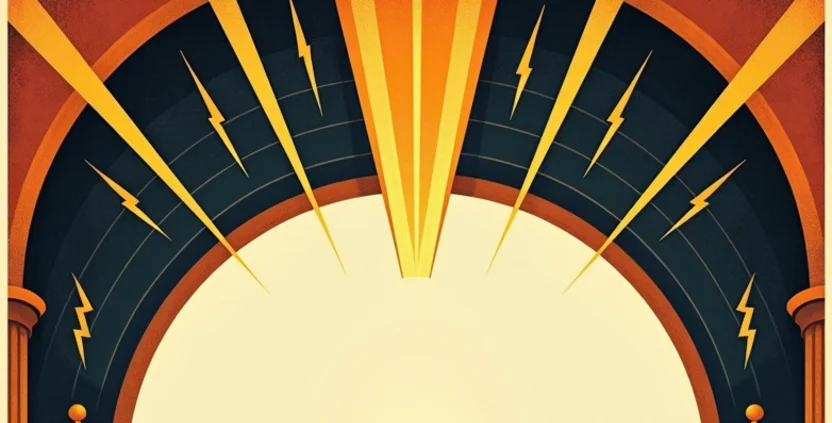
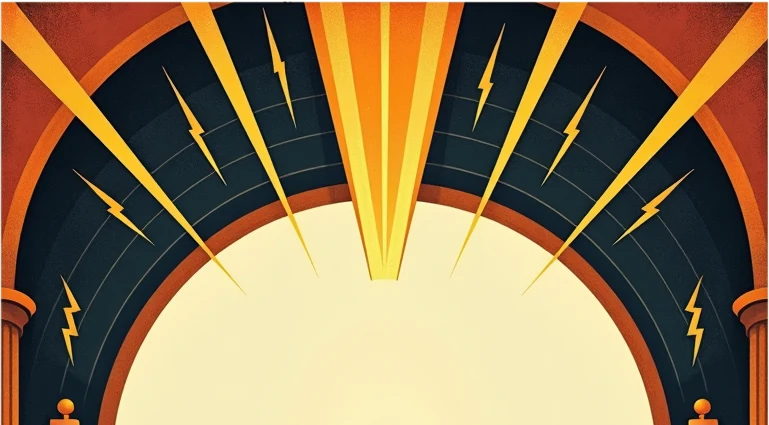
art — chapter crowns keep their full shape (alpha margin, no flat crop) (#5)
Web crowns are rebuilt from the approved frames by tools/crown_alpha.py:
the faint bone margin is cleared to alpha instead of cropped away, so the
ivy, the aether apex, and the compass point are no longer cut flat. CSS
keeps each crown's own aspect ratio.

Changed region(s): [[0.0, 0.0, 1.0, 1.0], [0.0624, 0.3381, 0.0936, 0.3688]]

diff --git a/web/rules/css/styles.css b/web/rules/css/styles.css
@@ -462,7 +462,7 @@ body::before {
 .page-hero--framed { text-align: center; }
 .page-hero--framed::after { left: 50%; transform: translateX(-50%); background: linear-gradient(90deg, transparent, var(--theme-accent), transparent); }
 .hero-crown {
-  aspect-ratio: 832 / 423;
+  aspect-ratio: var(--crown-ar);
   max-width: 560px;
   margin: 0 auto 1rem;
   padding: 0 21% 4%;
@@ -470,12 +470,13 @@ body::before {
   flex-direction: column;
   justify-content: flex-end;
   align-items: center;
-  background: var(--crown) center / 100% 100% no-repeat;
+  /* Crowns carry alpha (margin cleared, tools/crown_alpha.py); keep their own proportions */
+  background: var(--crown) center / contain no-repeat;
 }
-.hero-aether   { --crown: url(../../assets/art/frames/aether-crown.webp); }
-.hero-galvanic { --crown: url(../../assets/art/frames/galvanic-crown.webp); }
-.hero-split    { --crown: url(../../assets/art/frames/split-crown.webp); }
-.hero-neutral  { --crown: url(../../assets/art/frames/neutral-crown.webp); }
+.hero-aether   { --crown: url(../../assets/art/frames/aether-crown.webp);   --crown-ar: 804 / 430; }
+.hero-galvanic { --crown: url(../../assets/art/frames/galvanic-crown.webp); --crown-ar: 769 / 425; }
+.hero-split    { --crown: url(../../assets/art/frames/split-crown.webp);    --crown-ar: 818 / 430; }
+.hero-neutral  { --crown: url(../../assets/art/frames/neutral-crown.webp);  --crown-ar: 805 / 430; }
 .hero-crown .page-number { color: #8e2f23; margin-bottom: 0.35rem; }
 .hero-crown .page-title {
   color: #17140f;

diff --git a/tools/crown_alpha.py b/tools/crown_alpha.py
@@ -1,0 +1,80 @@
+#!/usr/bin/env python3
+"""
+Aetherfall Art Pipeline — Web Chapter Crowns with Alpha (Session 35)
+
+The approved theme frames sit on a faint bone margin. The old web crowns trimmed
+that margin off with a rectangular crop, which cut the ivy leaves and points flat.
+This clears the margin to transparent instead: a flood from the top and side
+edges through bone-colored pixels, limited to an outer band, so anything drawn
+over the margin (leaves, the compass point) keeps its full shape.
+
+Usage (needs Pillow + NumPy + SciPy; run through uv):
+    uv run --with pillow --with numpy --with scipy tools/crown_alpha.py            # all four
+    uv run --with pillow --with numpy --with scipy tools/crown_alpha.py --theme split --preview /tmp/p.png
+"""
+
+import argparse
+from pathlib import Path
+
+import numpy as np
+from PIL import Image
+from scipy import ndimage
+
+PROJECT_ROOT = Path(__file__).resolve().parent.parent
+APPROVED = PROJECT_ROOT / "art" / "decorative" / "approved"
+WEB_FRAMES = PROJECT_ROOT / "web" / "assets" / "art" / "frames"
+
+FRAMES = {
+    "aether": "proto-D2-decolitho_frame_aether_v02_seed-131618214.png",
+    "galvanic": "proto-D2-decolitho_frame_galvanic_v02_seed-1166265576.png",
+    "split": "proto-D2-decolitho_frame_split_v02_seed-2427297017.png",
+    "neutral": "proto-D2-decolitho_frame_neutral_v02_seed-1553240695.png",
+}
+
+CROWN_H = 430           # rows of the 832x1216 frame used for the crown
+BAND = 48               # the margin flood never reaches further than this from an edge
+BONE = np.array([249, 234, 185])
+TOLERANCE = 38          # RGB distance from BONE that still counts as margin
+PAGE_BG = (11, 14, 23)  # --bg-deep, for previews
+
+
+def margin_alpha(rgb: np.ndarray) -> np.ndarray:
+    h, w, _ = rgb.shape
+    bone = np.linalg.norm(rgb - BONE, axis=2) < TOLERANCE
+    yy, xx = np.mgrid[:h, :w]
+    band = (yy < BAND) | (xx < BAND) | (xx >= w - BAND)
+    candidate = bone & band
+    labels, _ = ndimage.label(candidate)
+    edge = np.unique(np.concatenate([labels[0], labels[:, 0], labels[:, -1]]))
+    margin = np.isin(labels, edge[edge > 0])
+    margin = ndimage.binary_dilation(margin, iterations=1) & band   # eat the anti-aliased fringe
+    alpha = ndimage.gaussian_filter((~margin).astype(float), 0.8)
+    return alpha
+
+
+def build(theme: str, preview: Path | None = None) -> Path:
+    rgb = np.asarray(Image.open(APPROVED / FRAMES[theme]).convert("RGB"), dtype=float)[:CROWN_H]
+    alpha = margin_alpha(rgb)
+    img = Image.fromarray(np.dstack([rgb, alpha * 255]).clip(0, 255).astype(np.uint8), "RGBA")
+    # Trim fully transparent rows/columns so the crown's box hugs the art
+    img = img.crop(img.getchannel("A").point(lambda a: 255 if a > 8 else 0).getbbox())
+    out = WEB_FRAMES / f"{theme}-crown.webp"
+    img.save(out, "WEBP", quality=88, alpha_quality=90, method=6)
+    print(f"wrote {out.relative_to(PROJECT_ROOT)} ({img.width}x{img.height})")
+    if preview:
+        bg = Image.new("RGBA", img.size, PAGE_BG + (255,))
+        Image.alpha_composite(bg, img).convert("RGB").save(preview)
+    return out
+
+
+def main():
+    ap = argparse.ArgumentParser(description=__doc__, formatter_class=argparse.RawDescriptionHelpFormatter)
+    ap.add_argument("--theme", choices=list(FRAMES), action="append")
+    ap.add_argument("--preview", type=Path, help="preview path (single theme only)")
+    args = ap.parse_args()
+    for theme in args.theme or list(FRAMES):
+        build(theme, args.preview if args.theme and len(args.theme) == 1 else None)
+
+
+if __name__ == "__main__":
+    main()

diff --git a/docs/art/generation-log.md b/docs/art/generation-log.md
@@ -150,3 +150,7 @@ Direction D2 (Deco Lithograph, six-ink palette, cyan = Aether, amber = Engine). 
 **Mira reference (Session 35):** `mira_v02_seed-2096254533` is the reference image for Mira (web portrait, sheets, future conditioning). 4036712205 stays approved as an alternate.
 
 **Portraits wired in (Session 35):** web copies at `web/assets/art/portraits/{kael,sera,aldric,mira}.webp` (full 832×1216, WebP q86). Used on the quickstart pregen cards and in the Notes box on page 2 of each pregen sheet.
+
+**Crown alpha (Session 35):** the web chapter crowns had been trimmed with a rectangular crop inside the frames' faint bone margin, which cut the ivy, the aether apex, and the compass point flat. `tools/crown_alpha.py` now builds each `web/assets/art/frames/{theme}-crown.webp` from the top 430 rows of the approved frame, clearing the bone margin to alpha (edge flood, limited to a 48 px band), so anything drawn over the margin keeps its full shape. Galvanic's rays still meet the top edge (there's no margin there to clear).
+
+**Outpaint attempt, archived (Session 35):** `crown-outpaint_aether_v01_seed-3241878809` tried extending the canvas with Flux inpainting; the model painted new scenery around the bordered frame instead of finishing it. Archived; the approach was dropped along with its script. The other seven queued seeds were cancelled.
